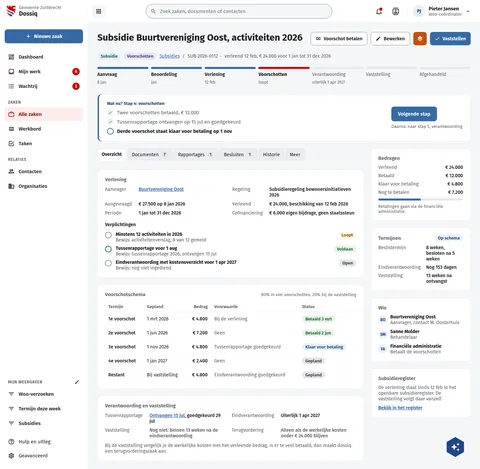
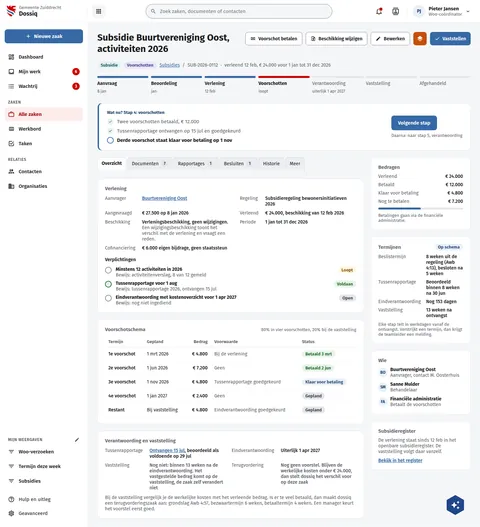
feat(screens): draw grant terms, amending decision and Woo intake on DqSubsidie and OcWooBatch
DqSubsidie: the interim report's assessment, the Awb term per step with the
team lead escalation, a button for an amending decision and the clawback
case with its legal basis, objection and payment periods and manager
approval (subsidieverlening-keten REQ-SUB-002/005/009, REQ-SUB-CASE-01,
subsidie-settlement-case-costs REQ-SSC-005).

OcWooBatch: the requester and channel, the start day of the term, the
acknowledgement of receipt naming its dates as days, and the decision
dialog gate that names the first unassessed document (woo-request-intake
REQ-WTO-001/002, REQ-WDI-003, document-assessment REQ-DAS-003).

Assisted-by: ClaudeCode:claude-fable-5-1

diff --git a/preview/screens/boards/DqSubsidie.html b/preview/screens/boards/DqSubsidie.html
@@ -143,7 +143,7 @@ a{color:var(--sc-primary, #3669a5)}a:hover{color:var(--sc-primary-deep, #234a78)
         <section style="display: flex; flex-direction: column; gap: 22px; padding: 4px 0 8px">
           <div style="display: flex; flex-wrap: wrap; justify-content: space-between; align-items: flex-start; gap: 12px 24px">
             <h1 style="flex: 1 1 320px; min-width: 0; margin: 0; font-size: 28px; font-weight: 700; line-height: 1.2">Subsidie Buurtvereniging Oost, activiteiten 2026</h1>
-            <div style="flex: none; display: flex; flex-wrap: wrap; gap: 10px; position: relative"><button type="button" style="display: inline-flex; align-items: center; gap: 8px; height: 40px; padding: 0 14px; border-radius: 8px; font: 600 14px var(--sc-font, 'Fira Sans'), sans-serif; white-space: nowrap; border: 1px solid var(--sc-work-field, #828a95); background: #ffffff; color: var(--sc-work-ink, #1b1c1d);"><svg width="16" height="16" viewbox="0 0 24 24" fill="currentColor" aria-hidden="true"><path d="M3,6H21V18H3V6M12,9A3,3 0 0,1 15,12A3,3 0 0,1 12,15A3,3 0 0,1 9,12A3,3 0 0,1 12,9M7,8A2,2 0 0,1 5,10V14A2,2 0 0,1 7,16H17A2,2 0 0,1 19,14V10A2,2 0 0,1 17,8H7Z"></path></svg>Voorschot betalen</button><button type="button" style="display: inline-flex; align-items: center; gap: 8px; height: 40px; padding: 0 14px; border-radius: 8px; font: 600 14px var(--sc-font, 'Fira Sans'), sans-serif; white-space: nowrap; border: 1px solid var(--sc-work-field, #828a95); background: #ffffff; color: var(--sc-work-ink, #1b1c1d);"><svg width="16" height="16" viewbox="0 0 24 24" fill="currentColor" aria-hidden="true"><path d="M20.71,7.04C21.1,6.65 21.1,6 20.71,5.63L18.37,3.29C18,2.9 17.35,2.9 16.96,3.29L15.12,5.12L18.87,8.87M3,17.25V21H6.75L17.81,9.93L14.06,6.18L3,17.25Z"></path></svg>Bewerken</button><button type="button" aria-label="buildiq" title="buildiq" style="display: flex; align-items: center; justify-content: center; width: 40px; height: 40px; border: 0; border-radius: 8px; background: var(--sc-buildiq, #c64e0b); color: #ffffff"><svg width="20" height="20" viewbox="0 0 24 24" fill="currentColor" aria-hidden="true"><path d="M12,16L19.36,10.27L21,9L12,2L3,9L4.63,10.27M12,18.54L4.62,12.81L3,14.07L12,21.07L21,14.07L19.37,12.8L12,18.54Z"></path></svg></button><button type="button" style="display: inline-flex; align-items: center; gap: 8px; height: 40px; padding: 0 14px; border-radius: 8px; font: 600 14px var(--sc-font, 'Fira Sans'), sans-serif; white-space: nowrap; border: 0; background: var(--sc-primary, #3669a5); color: #ffffff;"><svg width="16" height="16" viewbox="0 0 24 24" fill="currentColor" aria-hidden="true"><path d="M21,7L9,19L3.5,13.5L4.91,12.09L9,16.17L19.59,5.59L21,7Z"></path></svg>Vaststellen</button></div>
+            <div style="flex: none; display: flex; flex-wrap: wrap; gap: 10px; position: relative"><button type="button" style="display: inline-flex; align-items: center; gap: 8px; height: 40px; padding: 0 14px; border-radius: 8px; font: 600 14px var(--sc-font, 'Fira Sans'), sans-serif; white-space: nowrap; border: 1px solid var(--sc-work-field, #828a95); background: #ffffff; color: var(--sc-work-ink, #1b1c1d);"><svg width="16" height="16" viewbox="0 0 24 24" fill="currentColor" aria-hidden="true"><path d="M3,6H21V18H3V6M12,9A3,3 0 0,1 15,12A3,3 0 0,1 12,15A3,3 0 0,1 9,12A3,3 0 0,1 12,9M7,8A2,2 0 0,1 5,10V14A2,2 0 0,1 7,16H17A2,2 0 0,1 19,14V10A2,2 0 0,1 17,8H7Z"></path></svg>Voorschot betalen</button><button type="button" style="display: inline-flex; align-items: center; gap: 8px; height: 40px; padding: 0 14px; border-radius: 8px; font: 600 14px var(--sc-font, 'Fira Sans'), sans-serif; white-space: nowrap; border: 1px solid var(--sc-work-field, #828a95); background: #ffffff; color: var(--sc-work-ink, #1b1c1d);"><svg width="16" height="16" viewbox="0 0 24 24" fill="currentColor" aria-hidden="true"><path d="M14,2H6A2,2 0 0,0 4,4V20A2,2 0 0,0 6,22H18A2,2 0 0,0 20,20V8L14,2M18,20H6V4H13V9H18V20M10,19L12,15H9V10H15V15L13,19H10Z"></path></svg>Beschikking wijzigen</button><button type="button" style="display: inline-flex; align-items: center; gap: 8px; height: 40px; padding: 0 14px; border-radius: 8px; font: 600 14px var(--sc-font, 'Fira Sans'), sans-serif; white-space: nowrap; border: 1px solid var(--sc-work-field, #828a95); background: #ffffff; color: var(--sc-work-ink, #1b1c1d);"><svg width="16" height="16" viewbox="0 0 24 24" fill="currentColor" aria-hidden="true"><path d="M20.71,7.04C21.1,6.65 21.1,6 20.71,5.63L18.37,3.29C18,2.9 17.35,2.9 16.96,3.29L15.12,5.12L18.87,8.87M3,17.25V21H6.75L17.81,9.93L14.06,6.18L3,17.25Z"></path></svg>Bewerken</button><button type="button" aria-label="buildiq" title="buildiq" style="display: flex; align-items: center; justify-content: center; width: 40px; height: 40px; border: 0; border-radius: 8px; background: var(--sc-buildiq, #c64e0b); color: #ffffff"><svg width="20" height="20" viewbox="0 0 24 24" fill="currentColor" aria-hidden="true"><path d="M12,16L19.36,10.27L21,9L12,2L3,9L4.63,10.27M12,18.54L4.62,12.81L3,14.07L12,21.07L21,14.07L19.37,12.8L12,18.54Z"></path></svg></button><button type="button" style="display: inline-flex; align-items: center; gap: 8px; height: 40px; padding: 0 14px; border-radius: 8px; font: 600 14px var(--sc-font, 'Fira Sans'), sans-serif; white-space: nowrap; border: 0; background: var(--sc-primary, #3669a5); color: #ffffff;"><svg width="16" height="16" viewbox="0 0 24 24" fill="currentColor" aria-hidden="true"><path d="M21,7L9,19L3.5,13.5L4.91,12.09L9,16.17L19.59,5.59L21,7Z"></path></svg>Vaststellen</button></div>
           </div>
           <div style="display: flex; flex-direction: column; gap: 6px; min-width: 0">
             <div style="display: flex; flex-wrap: wrap; gap: 8px; align-items: center; font-size: 15px; color: var(--sc-work-muted, #5e6168); min-width: 0"><span style="display: inline-block; padding: 3px 10px; border-radius: 12px; background: #e3f1f3; color: #1d5e66; font-size: 13px; font-weight: 600; white-space: nowrap">Subsidie</span><span style="display: inline-block; padding: 3px 10px; border-radius: 12px; background: #e8e6f6; color: #4a3f8f; font-size: 13px; font-weight: 600; white-space: nowrap">Voorschotten</span><nav aria-label="Kruimelpad" style="font-size: 14px; color: var(--sc-work-muted, #5e6168); display: flex; gap: 8px"><a href="DqZaken.html">Subsidies</a><span aria-hidden="true">/</span><span aria-current="page">SUB-2026-0112</span></nav><span aria-hidden="true" style="color: var(--sc-work-muted, #5e6168)">·</span><span style="font-size: 14px; color: var(--sc-work-muted, #5e6168)">verleend 12 feb, € 24.000 voor 1 jan tot 31 dec 2026</span></div>
@@ -220,6 +220,7 @@ a{color:var(--sc-primary, #3669a5)}a:hover{color:var(--sc-primary-deep, #234a78)
                 <dt style="color: var(--sc-work-muted, #5e6168)">Regeling</dt><dd style="margin: 0; font-weight: 500">Subsidieregeling bewonersinitiatieven 2026</dd>
                 <dt style="color: var(--sc-work-muted, #5e6168)">Aangevraagd</dt><dd style="margin: 0; font-weight: 500">€ 27.500 op 8 jan 2026</dd>
                 <dt style="color: var(--sc-work-muted, #5e6168)">Verleend</dt><dd style="margin: 0; font-weight: 500">€ 24.000, beschikking van 12 feb 2026</dd>
+                <dt style="color: var(--sc-work-muted, #5e6168)">Beschikking</dt><dd style="margin: 0; font-weight: 500">Verleningsbeschikking, geen wijzigingen. <span style="font-weight: 400; color: var(--sc-work-muted, #5e6168)">Een wijzigingsbeschikking toont het verschil met de verlening en vraagt een reden.</span></dd>
                 <dt style="color: var(--sc-work-muted, #5e6168)">Periode</dt><dd style="margin: 0; font-weight: 500">1 jan tot 31 dec 2026</dd>
                 <dt style="color: var(--sc-work-muted, #5e6168)">Cofinanciering</dt><dd style="margin: 0; font-weight: 500">€ 6.000 eigen bijdrage, geen staatssteun</dd>
               </dl>
@@ -240,12 +241,12 @@ a{color:var(--sc-primary, #3669a5)}a:hover{color:var(--sc-primary-deep, #234a78)
             <section aria-label="Verantwoording en vaststelling" style="background: #ffffff; border: 1px solid var(--sc-work-line, #e4e6ea); border-radius: 12px; padding: 20px 22px; display: flex; flex-direction: column; gap: 12px">
               <h2 style="margin: 0; font-size: 15px; font-weight: 600; color: var(--sc-work-muted, #5e6168)">Verantwoording en vaststelling</h2>
               <dl style="margin: 0; display: grid; grid-template-columns: max-content 1fr max-content 1fr; gap: 10px 20px; font-size: 14px">
-                <dt style="color: var(--sc-work-muted, #5e6168)">Tussenrapportage</dt><dd style="margin: 0; font-weight: 500"><a href="DqZaak.html">Ontvangen 15 jul</a>, goedgekeurd 29 jul</dd>
+                <dt style="color: var(--sc-work-muted, #5e6168)">Tussenrapportage</dt><dd style="margin: 0; font-weight: 500"><a href="DqZaak.html">Ontvangen 15 jul</a>, beoordeeld als voldoende op 29 jul</dd>
                 <dt style="color: var(--sc-work-muted, #5e6168)">Eindverantwoording</dt><dd style="margin: 0; font-weight: 500">Uiterlijk 1 apr 2027</dd>
-                <dt style="color: var(--sc-work-muted, #5e6168)">Vaststelling</dt><dd style="margin: 0; font-weight: 500; color: var(--sc-work-muted, #5e6168)">Nog niet: binnen 13 weken na de eindverantwoording</dd>
-                <dt style="color: var(--sc-work-muted, #5e6168)">Terugvordering</dt><dd style="margin: 0; font-weight: 500; color: var(--sc-work-muted, #5e6168)">Alleen als de werkelijke kosten onder € 24.000 blijven</dd>
+                <dt style="color: var(--sc-work-muted, #5e6168)">Vaststelling</dt><dd style="margin: 0; font-weight: 500; color: var(--sc-work-muted, #5e6168)">Nog niet: binnen 13 weken na de eindverantwoording. Het vastgestelde bedrag komt op de vaststelling, de zaak zelf verandert niet</dd>
+                <dt style="color: var(--sc-work-muted, #5e6168)">Terugvordering</dt><dd style="margin: 0; font-weight: 500; color: var(--sc-work-muted, #5e6168)">Nog geen voorstel. Blijven de werkelijke kosten onder € 24.000, dan stelt dossiq het verschil voor op deze zaak</dd>
               </dl>
-              <p style="margin: 0; font-size: 14px; color: var(--sc-work-muted, #5e6168)">Bij de vaststelling vergelijk je de werkelijke kosten met het verleende bedrag. Is er te veel betaald, dan maakt dossiq een terugvorderingszaak aan.</p>
+              <p style="margin: 0; font-size: 14px; color: var(--sc-work-muted, #5e6168)">Bij de vaststelling vergelijk je de werkelijke kosten met het verleende bedrag. Is er te veel betaald, dan maakt dossiq een terugvorderingszaak aan: grondslag Awb 4:57, bezwaartermijn 6 weken, betaaltermijn 4 weken. Een manager keurt het voorstel eerst goed.</p>
             </section>
           </div>
           <aside style="flex: 1 1 300px; min-width: 0; display: flex; flex-direction: column; gap: 20px">
@@ -263,10 +264,12 @@ a{color:var(--sc-primary, #3669a5)}a:hover{color:var(--sc-primary-deep, #234a78)
             <section aria-label="Termijnen" style="background: #ffffff; border: 1px solid var(--sc-work-line, #e4e6ea); border-radius: 12px; padding: 20px 22px; display: flex; flex-direction: column; gap: 10px">
               <div style="display: flex; justify-content: space-between; align-items: center; gap: 8px"><h2 style="margin: 0; font-size: 15px; font-weight: 600; color: var(--sc-work-muted, #5e6168)">Termijnen</h2><span style="display: inline-block; padding: 3px 10px; border-radius: 12px; background: var(--sc-primary-light, #eaf0f7); color: var(--sc-primary-deep, #234a78); font-size: 13px; font-weight: 600">Op schema</span></div>
               <dl style="margin: 0; display: grid; grid-template-columns: max-content 1fr; gap: 8px 16px; font-size: 14px">
-                <dt style="color: var(--sc-work-muted, #5e6168)">Beslistermijn</dt><dd style="margin: 0; font-weight: 500">8 weken, besloten na 5 weken</dd>
+                <dt style="color: var(--sc-work-muted, #5e6168)">Beslistermijn</dt><dd style="margin: 0; font-weight: 500">8 weken uit de regeling (Awb 4:13), besloten na 5 weken</dd>
+                <dt style="color: var(--sc-work-muted, #5e6168)">Tussenrapportage</dt><dd style="margin: 0; font-weight: 500">Beoordeeld binnen 8 weken na 30 jun</dd>
                 <dt style="color: var(--sc-work-muted, #5e6168)">Eindverantwoording</dt><dd style="margin: 0; font-weight: 500">Nog 153 dagen</dd>
                 <dt style="color: var(--sc-work-muted, #5e6168)">Vaststelling</dt><dd style="margin: 0; font-weight: 500">13 weken na ontvangst</dd>
               </dl>
+              <span style="font-size: 13px; color: var(--sc-work-muted, #5e6168)">Elke stap telt in werkdagen vanaf de ontvangst. Verstrijkt een termijn, dan krijgt de teamleider een melding.</span>
             </section>
             <section aria-label="Wie" style="background: #ffffff; border: 1px solid var(--sc-work-line, #e4e6ea); border-radius: 12px; padding: 20px 22px; display: flex; flex-direction: column; gap: 10px">
               <h2 style="margin: 0; font-size: 15px; font-weight: 600; color: var(--sc-work-muted, #5e6168)">Wie</h2>

diff --git a/screens-src/zuiddrecht/DqSubsidie.dc.html b/screens-src/zuiddrecht/DqSubsidie.dc.html
@@ -23,7 +23,7 @@ a{color:#3669a5}a:hover{color:#234a78}
         <section style="display: flex; flex-direction: column; gap: 22px; padding: 4px 0 8px">
           <div style="display: flex; flex-wrap: wrap; justify-content: space-between; align-items: flex-start; gap: 12px 24px">
             <h1 style="flex: 1 1 320px; min-width: 0; margin: 0; font-size: 28px; font-weight: 700; line-height: 1.2">Subsidie Buurtvereniging Oost, activiteiten 2026</h1>
-            <div style="flex: none; display: flex; flex-wrap: wrap; gap: 10px; position: relative"><button type="button" style="display: inline-flex; align-items: center; gap: 8px; height: 40px; padding: 0 14px; border-radius: 8px; font: 600 14px 'Fira Sans', sans-serif; white-space: nowrap; border: 1px solid #828a95; background: #ffffff; color: #1b1c1d;"><svg width="16" height="16" viewBox="0 0 24 24" fill="currentColor" aria-hidden="true"><path d="M3,6H21V18H3V6M12,9A3,3 0 0,1 15,12A3,3 0 0,1 12,15A3,3 0 0,1 9,12A3,3 0 0,1 12,9M7,8A2,2 0 0,1 5,10V14A2,2 0 0,1 7,16H17A2,2 0 0,1 19,14V10A2,2 0 0,1 17,8H7Z"></path></svg>Voorschot betalen</button><button type="button" style="display: inline-flex; align-items: center; gap: 8px; height: 40px; padding: 0 14px; border-radius: 8px; font: 600 14px 'Fira Sans', sans-serif; white-space: nowrap; border: 1px solid #828a95; background: #ffffff; color: #1b1c1d;"><svg width="16" height="16" viewBox="0 0 24 24" fill="currentColor" aria-hidden="true"><path d="M20.71,7.04C21.1,6.65 21.1,6 20.71,5.63L18.37,3.29C18,2.9 17.35,2.9 16.96,3.29L15.12,5.12L18.87,8.87M3,17.25V21H6.75L17.81,9.93L14.06,6.18L3,17.25Z"></path></svg>Bewerken</button><button type="button" aria-label="buildiq" title="buildiq" style="display: flex; align-items: center; justify-content: center; width: 40px; height: 40px; border: 0; border-radius: 8px; background: #c64e0b; color: #ffffff"><svg width="20" height="20" viewBox="0 0 24 24" fill="currentColor" aria-hidden="true"><path d="M12,16L19.36,10.27L21,9L12,2L3,9L4.63,10.27M12,18.54L4.62,12.81L3,14.07L12,21.07L21,14.07L19.37,12.8L12,18.54Z"></path></svg></button><button type="button" style="display: inline-flex; align-items: center; gap: 8px; height: 40px; padding: 0 14px; border-radius: 8px; font: 600 14px 'Fira Sans', sans-serif; white-space: nowrap; border: 0; background: #3669a5; color: #ffffff;"><svg width="16" height="16" viewBox="0 0 24 24" fill="currentColor" aria-hidden="true"><path d="M21,7L9,19L3.5,13.5L4.91,12.09L9,16.17L19.59,5.59L21,7Z"></path></svg>Vaststellen</button></div>
+            <div style="flex: none; display: flex; flex-wrap: wrap; gap: 10px; position: relative"><button type="button" style="display: inline-flex; align-items: center; gap: 8px; height: 40px; padding: 0 14px; border-radius: 8px; font: 600 14px 'Fira Sans', sans-serif; white-space: nowrap; border: 1px solid #828a95; background: #ffffff; color: #1b1c1d;"><svg width="16" height="16" viewBox="0 0 24 24" fill="currentColor" aria-hidden="true"><path d="M3,6H21V18H3V6M12,9A3,3 0 0,1 15,12A3,3 0 0,1 12,15A3,3 0 0,1 9,12A3,3 0 0,1 12,9M7,8A2,2 0 0,1 5,10V14A2,2 0 0,1 7,16H17A2,2 0 0,1 19,14V10A2,2 0 0,1 17,8H7Z"></path></svg>Voorschot betalen</button><button type="button" style="display: inline-flex; align-items: center; gap: 8px; height: 40px; padding: 0 14px; border-radius: 8px; font: 600 14px 'Fira Sans', sans-serif; white-space: nowrap; border: 1px solid #828a95; background: #ffffff; color: #1b1c1d;"><svg width="16" height="16" viewBox="0 0 24 24" fill="currentColor" aria-hidden="true"><path d="M14,2H6A2,2 0 0,0 4,4V20A2,2 0 0,0 6,22H18A2,2 0 0,0 20,20V8L14,2M18,20H6V4H13V9H18V20M10,19L12,15H9V10H15V15L13,19H10Z"></path></svg>Beschikking wijzigen</button><button type="button" style="display: inline-flex; align-items: center; gap: 8px; height: 40px; padding: 0 14px; border-radius: 8px; font: 600 14px 'Fira Sans', sans-serif; white-space: nowrap; border: 1px solid #828a95; background: #ffffff; color: #1b1c1d;"><svg width="16" height="16" viewBox="0 0 24 24" fill="currentColor" aria-hidden="true"><path d="M20.71,7.04C21.1,6.65 21.1,6 20.71,5.63L18.37,3.29C18,2.9 17.35,2.9 16.96,3.29L15.12,5.12L18.87,8.87M3,17.25V21H6.75L17.81,9.93L14.06,6.18L3,17.25Z"></path></svg>Bewerken</button><button type="button" aria-label="buildiq" title="buildiq" style="display: flex; align-items: center; justify-content: center; width: 40px; height: 40px; border: 0; border-radius: 8px; background: #c64e0b; color: #ffffff"><svg width="20" height="20" viewBox="0 0 24 24" fill="currentColor" aria-hidden="true"><path d="M12,16L19.36,10.27L21,9L12,2L3,9L4.63,10.27M12,18.54L4.62,12.81L3,14.07L12,21.07L21,14.07L19.37,12.8L12,18.54Z"></path></svg></button><button type="button" style="display: inline-flex; align-items: center; gap: 8px; height: 40px; padding: 0 14px; border-radius: 8px; font: 600 14px 'Fira Sans', sans-serif; white-space: nowrap; border: 0; background: #3669a5; color: #ffffff;"><svg width="16" height="16" viewBox="0 0 24 24" fill="currentColor" aria-hidden="true"><path d="M21,7L9,19L3.5,13.5L4.91,12.09L9,16.17L19.59,5.59L21,7Z"></path></svg>Vaststellen</button></div>
           </div>
           <div style="display: flex; flex-direction: column; gap: 6px; min-width: 0">
             <div style="display: flex; flex-wrap: wrap; gap: 8px; align-items: center; font-size: 15px; color: #5e6168; min-width: 0"><span style="display: inline-block; padding: 3px 10px; border-radius: 12px; background: #e3f1f3; color: #1d5e66; font-size: 13px; font-weight: 600; white-space: nowrap">Subsidie</span><span style="display: inline-block; padding: 3px 10px; border-radius: 12px; background: #e8e6f6; color: #4a3f8f; font-size: 13px; font-weight: 600; white-space: nowrap">Voorschotten</span><nav aria-label="Kruimelpad" style="font-size: 14px; color: #5e6168; display: flex; gap: 8px"><a href="DqZaken.dc.html">Subsidies</a><span aria-hidden="true">/</span><span aria-current="page">SUB-2026-0112</span></nav><span aria-hidden="true" style="color: #5e6168">·</span><span style="font-size: 14px; color: #5e6168">verleend 12 feb, € 24.000 voor 1 jan tot 31 dec 2026</span></div>
@@ -64,6 +64,7 @@ a{color:#3669a5}a:hover{color:#234a78}
                 <dt style="color: #5e6168">Regeling</dt><dd style="margin: 0; font-weight: 500">Subsidieregeling bewonersinitiatieven 2026</dd>
                 <dt style="color: #5e6168">Aangevraagd</dt><dd style="margin: 0; font-weight: 500">€ 27.500 op 8 jan 2026</dd>
                 <dt style="color: #5e6168">Verleend</dt><dd style="margin: 0; font-weight: 500">€ 24.000, beschikking van 12 feb 2026</dd>
+                <dt style="color: #5e6168">Beschikking</dt><dd style="margin: 0; font-weight: 500">Verleningsbeschikking, geen wijzigingen. <span style="font-weight: 400; color: #5e6168">Een wijzigingsbeschikking toont het verschil met de verlening en vraagt een reden.</span></dd>
                 <dt style="color: #5e6168">Periode</dt><dd style="margin: 0; font-weight: 500">1 jan tot 31 dec 2026</dd>
                 <dt style="color: #5e6168">Cofinanciering</dt><dd style="margin: 0; font-weight: 500">€ 6.000 eigen bijdrage, geen staatssteun</dd>
               </dl>
@@ -84,12 +85,12 @@ a{color:#3669a5}a:hover{color:#234a78}
             <section aria-label="Verantwoording en vaststelling" style="background: #ffffff; border: 1px solid #e4e6ea; border-radius: 12px; padding: 20px 22px; display: flex; flex-direction: column; gap: 12px">
               <h2 style="margin: 0; font-size: 15px; font-weight: 600; color: #5e6168">Verantwoording en vaststelling</h2>
               <dl style="margin: 0; display: grid; grid-template-columns: max-content 1fr max-content 1fr; gap: 10px 20px; font-size: 14px">
-                <dt style="color: #5e6168">Tussenrapportage</dt><dd style="margin: 0; font-weight: 500"><a href="DqZaak.dc.html">Ontvangen 15 jul</a>, goedgekeurd 29 jul</dd>
+                <dt style="color: #5e6168">Tussenrapportage</dt><dd style="margin: 0; font-weight: 500"><a href="DqZaak.dc.html">Ontvangen 15 jul</a>, beoordeeld als voldoende op 29 jul</dd>
                 <dt style="color: #5e6168">Eindverantwoording</dt><dd style="margin: 0; font-weight: 500">Uiterlijk 1 apr 2027</dd>
-                <dt style="color: #5e6168">Vaststelling</dt><dd style="margin: 0; font-weight: 500; color: #5e6168">Nog niet: binnen 13 weken na de eindverantwoording</dd>
-                <dt style="color: #5e6168">Terugvordering</dt><dd style="margin: 0; font-weight: 500; color: #5e6168">Alleen als de werkelijke kosten onder € 24.000 blijven</dd>
+                <dt style="color: #5e6168">Vaststelling</dt><dd style="margin: 0; font-weight: 500; color: #5e6168">Nog niet: binnen 13 weken na de eindverantwoording. Het vastgestelde bedrag komt op de vaststelling, de zaak zelf verandert niet</dd>
+                <dt style="color: #5e6168">Terugvordering</dt><dd style="margin: 0; font-weight: 500; color: #5e6168">Nog geen voorstel. Blijven de werkelijke kosten onder € 24.000, dan stelt dossiq het verschil voor op deze zaak</dd>
               </dl>
-              <p style="margin: 0; font-size: 14px; color: #5e6168">Bij de vaststelling vergelijk je de werkelijke kosten met het verleende bedrag. Is er te veel betaald, dan maakt dossiq een terugvorderingszaak aan.</p>
+              <p style="margin: 0; font-size: 14px; color: #5e6168">Bij de vaststelling vergelijk je de werkelijke kosten met het verleende bedrag. Is er te veel betaald, dan maakt dossiq een terugvorderingszaak aan: grondslag Awb 4:57, bezwaartermijn 6 weken, betaaltermijn 4 weken. Een manager keurt het voorstel eerst goed.</p>
             </section>
           </div>
           <aside style="flex: 1 1 300px; min-width: 0; display: flex; flex-direction: column; gap: 20px">
@@ -107,10 +108,12 @@ a{color:#3669a5}a:hover{color:#234a78}
             <section aria-label="Termijnen" style="background: #ffffff; border: 1px solid #e4e6ea; border-radius: 12px; padding: 20px 22px; display: flex; flex-direction: column; gap: 10px">
               <div style="display: flex; justify-content: space-between; align-items: center; gap: 8px"><h2 style="margin: 0; font-size: 15px; font-weight: 600; color: #5e6168">Termijnen</h2><span style="display: inline-block; padding: 3px 10px; border-radius: 12px; background: #eaf0f7; color: #234a78; font-size: 13px; font-weight: 600">Op schema</span></div>
               <dl style="margin: 0; display: grid; grid-template-columns: max-content 1fr; gap: 8px 16px; font-size: 14px">
-                <dt style="color: #5e6168">Beslistermijn</dt><dd style="margin: 0; font-weight: 500">8 weken, besloten na 5 weken</dd>
+                <dt style="color: #5e6168">Beslistermijn</dt><dd style="margin: 0; font-weight: 500">8 weken uit de regeling (Awb 4:13), besloten na 5 weken</dd>
+                <dt style="color: #5e6168">Tussenrapportage</dt><dd style="margin: 0; font-weight: 500">Beoordeeld binnen 8 weken na 30 jun</dd>
                 <dt style="color: #5e6168">Eindverantwoording</dt><dd style="margin: 0; font-weight: 500">Nog 153 dagen</dd>
                 <dt style="color: #5e6168">Vaststelling</dt><dd style="margin: 0; font-weight: 500">13 weken na ontvangst</dd>
               </dl>
+              <span style="font-size: 13px; color: #5e6168">Elke stap telt in werkdagen vanaf de ontvangst. Verstrijkt een termijn, dan krijgt de teamleider een melding.</span>
             </section>
             <section aria-label="Wie" style="background: #ffffff; border: 1px solid #e4e6ea; border-radius: 12px; padding: 20px 22px; display: flex; flex-direction: column; gap: 10px">
               <h2 style="margin: 0; font-size: 15px; font-weight: 600; color: #5e6168">Wie</h2>

diff --git a/preview/screens/boards/OcWooBatch.html b/preview/screens/boards/OcWooBatch.html
@@ -127,6 +127,7 @@ a{color:var(--sc-primary, #3669a5)}a:hover{color:var(--sc-primary-deep, #234a78)
           <div style="flex: 1 1 380px; display: flex; flex-direction: column; gap: 6px">
             <h2 id="oc-next" style="margin: 0; font-size: 13px; font-weight: 700; color: var(--sc-primary-deep, #234a78)">Wat nu? 133 van 214 beoordeeld</h2>
             <span style="font-size: 15px; color: var(--sc-work-text, #3d4047)">Beoordeel de 81 resterende documenten. Zijn ze allemaal beoordeeld, zet de batch dan op gereed voor beoordeling. Na akkoord gaat hij naar de openbare inzagekamer.</span>
+            <span style="font-size: 14px; color: var(--sc-work-muted, #5e6168)">Besluiten op de zaak gebeurt in één dialoog, pas als elk document beoordeeld is. Nu noemt die dialoog het eerste onbeoordeelde document, "E-mail van de ontwikkelaar, 3 maart 2026", en is er niets op te slaan.</span>
           </div>
           <button type="button" style="display: inline-flex; align-items: center; height: 40px; padding: 0 18px; border: 0; border-radius: 8px; background: var(--sc-primary, #3669a5); color: #ffffff; font: 600 14px var(--sc-font, 'Fira Sans'), sans-serif">Markeer gereed voor beoordeling</button>
         </section>
@@ -229,7 +230,8 @@ a{color:var(--sc-primary, #3669a5)}a:hover{color:var(--sc-primary-deep, #234a78)
             <section style="background: #ffffff; border: 1px solid var(--sc-work-line, #e4e6ea); border-radius: 12px; padding: 20px 22px; display: flex; flex-direction: column; gap: 10px">
               <h2 style="margin: 0; font-size: 15px; font-weight: 600; color: var(--sc-work-muted, #5e6168)">Woo-verzoek <span style="padding: 2px 8px; border-radius: 10px; background: #e7f3ea; color: #1e6b2a; font-size: 12px; font-weight: 700">Nieuw</span></h2>
               <a href="#" style="font-size: 15px; font-weight: 600">WOO-2026-031, ontvangen 12 juli 2026</a>
-              <dl style="margin: 0; display: grid; grid-template-columns: max-content 1fr; gap: 8px 16px; font-size: 14px"><dt style="color: var(--sc-work-muted, #5e6168)">Besluit uiterlijk</dt><dd style="margin: 0">9 augustus 2026, verlengd tot 6 september</dd><dt style="color: var(--sc-work-muted, #5e6168)">Termijn</dt><dd style="margin: 0; color: var(--sc-accent-deep, #a30000); font-weight: 600">31 dagen te laat</dd></dl>
+              <dl style="margin: 0; display: grid; grid-template-columns: max-content 1fr; gap: 8px 16px; font-size: 14px"><dt style="color: var(--sc-work-muted, #5e6168)">Verzoeker</dt><dd style="margin: 0">J. de Vries, via het webformulier</dd><dt style="color: var(--sc-work-muted, #5e6168)">Termijn gestart</dt><dd style="margin: 0">12 juli 2026, de dag van verzending door de verzoeker</dd><dt style="color: var(--sc-work-muted, #5e6168)">Besluit uiterlijk</dt><dd style="margin: 0">9 augustus 2026, verlengd tot 6 september</dd><dt style="color: var(--sc-work-muted, #5e6168)">Termijn</dt><dd style="margin: 0; color: var(--sc-accent-deep, #a30000); font-weight: 600">31 dagen te laat</dd></dl>
+              <p style="margin: 0; padding: 10px 12px; border-left: 3px solid var(--sc-work-line, #e4e6ea); font-size: 13px; color: var(--sc-work-muted, #5e6168); line-height: 1.5"><strong style="display: block; color: var(--sc-work-text, #3d4047)">Ontvangstbevestiging, verstuurd 12 juli</strong>"Wij tellen de termijn vanaf 12 juli 2026. U krijgt uiterlijk op 9 augustus 2026 antwoord."</p>
             </section>
           </aside>
         </div>

diff --git a/screens-src/zuiddrecht/OcWooBatch.dc.html b/screens-src/zuiddrecht/OcWooBatch.dc.html
@@ -37,6 +37,7 @@ a{color:#3669a5}a:hover{color:#234a78}
           <div style="flex: 1 1 380px; display: flex; flex-direction: column; gap: 6px">
             <h2 id="oc-next" style="margin: 0; font-size: 13px; font-weight: 700; color: #234a78">Wat nu? 133 van 214 beoordeeld</h2>
             <span style="font-size: 15px; color: #3d4047">Beoordeel de 81 resterende documenten. Zijn ze allemaal beoordeeld, zet de batch dan op gereed voor beoordeling. Na akkoord gaat hij naar de openbare inzagekamer.</span>
+            <span style="font-size: 14px; color: #5e6168">Besluiten op de zaak gebeurt in één dialoog, pas als elk document beoordeeld is. Nu noemt die dialoog het eerste onbeoordeelde document, "E-mail van de ontwikkelaar, 3 maart 2026", en is er niets op te slaan.</span>
           </div>
           <button type="button" style="display: inline-flex; align-items: center; height: 40px; padding: 0 18px; border: 0; border-radius: 8px; background: #3669a5; color: #ffffff; font: 600 14px 'Fira Sans', sans-serif">Markeer gereed voor beoordeling</button>
         </section>
@@ -75,7 +76,8 @@ a{color:#3669a5}a:hover{color:#234a78}
             <section style="background: #ffffff; border: 1px solid #e4e6ea; border-radius: 12px; padding: 20px 22px; display: flex; flex-direction: column; gap: 10px">
               <h2 style="margin: 0; font-size: 15px; font-weight: 600; color: #5e6168">Woo-verzoek <span style="padding: 2px 8px; border-radius: 10px; background: #e7f3ea; color: #1e6b2a; font-size: 12px; font-weight: 700">Nieuw</span></h2>
               <a href="#" style="font-size: 15px; font-weight: 600">WOO-2026-031, ontvangen 12 juli 2026</a>
-              <dl style="margin: 0; display: grid; grid-template-columns: max-content 1fr; gap: 8px 16px; font-size: 14px"><dt style="color: #5e6168">Besluit uiterlijk</dt><dd style="margin: 0">9 augustus 2026, verlengd tot 6 september</dd><dt style="color: #5e6168">Termijn</dt><dd style="margin: 0; color: #a30000; font-weight: 600">31 dagen te laat</dd></dl>
+              <dl style="margin: 0; display: grid; grid-template-columns: max-content 1fr; gap: 8px 16px; font-size: 14px"><dt style="color: #5e6168">Verzoeker</dt><dd style="margin: 0">J. de Vries, via het webformulier</dd><dt style="color: #5e6168">Termijn gestart</dt><dd style="margin: 0">12 juli 2026, de dag van verzending door de verzoeker</dd><dt style="color: #5e6168">Besluit uiterlijk</dt><dd style="margin: 0">9 augustus 2026, verlengd tot 6 september</dd><dt style="color: #5e6168">Termijn</dt><dd style="margin: 0; color: #a30000; font-weight: 600">31 dagen te laat</dd></dl>
+              <p style="margin: 0; padding: 10px 12px; border-left: 3px solid #e4e6ea; font-size: 13px; color: #5e6168; line-height: 1.5"><strong style="display: block; color: #3d4047">Ontvangstbevestiging, verstuurd 12 juli</strong>"Wij tellen de termijn vanaf 12 juli 2026. U krijgt uiterlijk op 9 augustus 2026 antwoord."</p>
             </section>
           </aside>
         </div>
